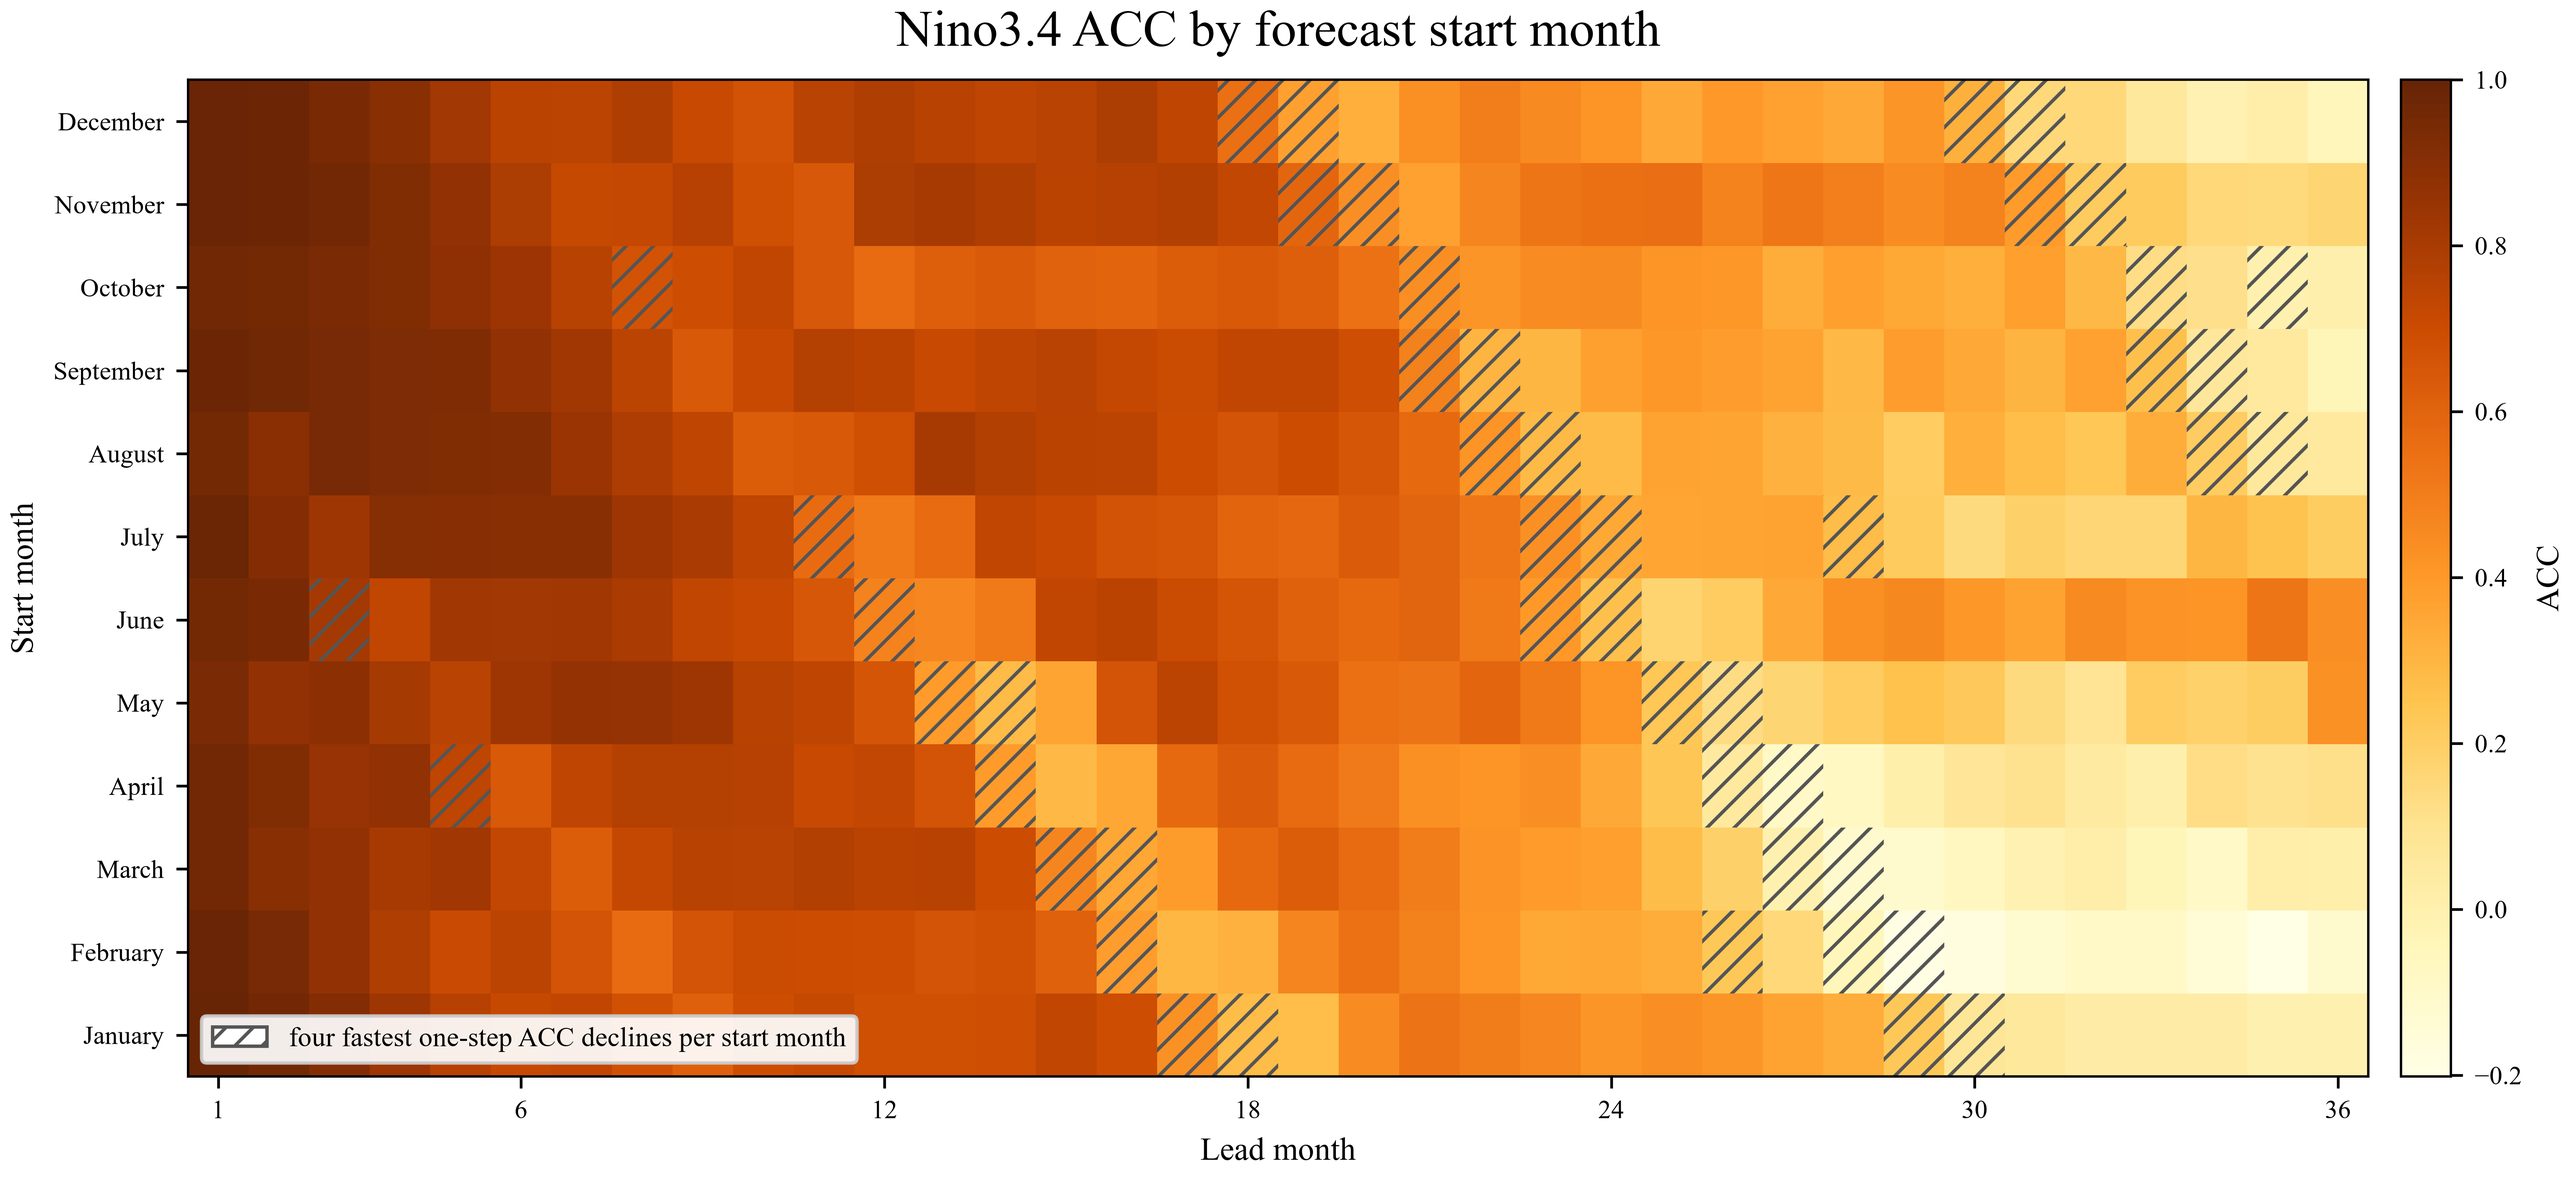
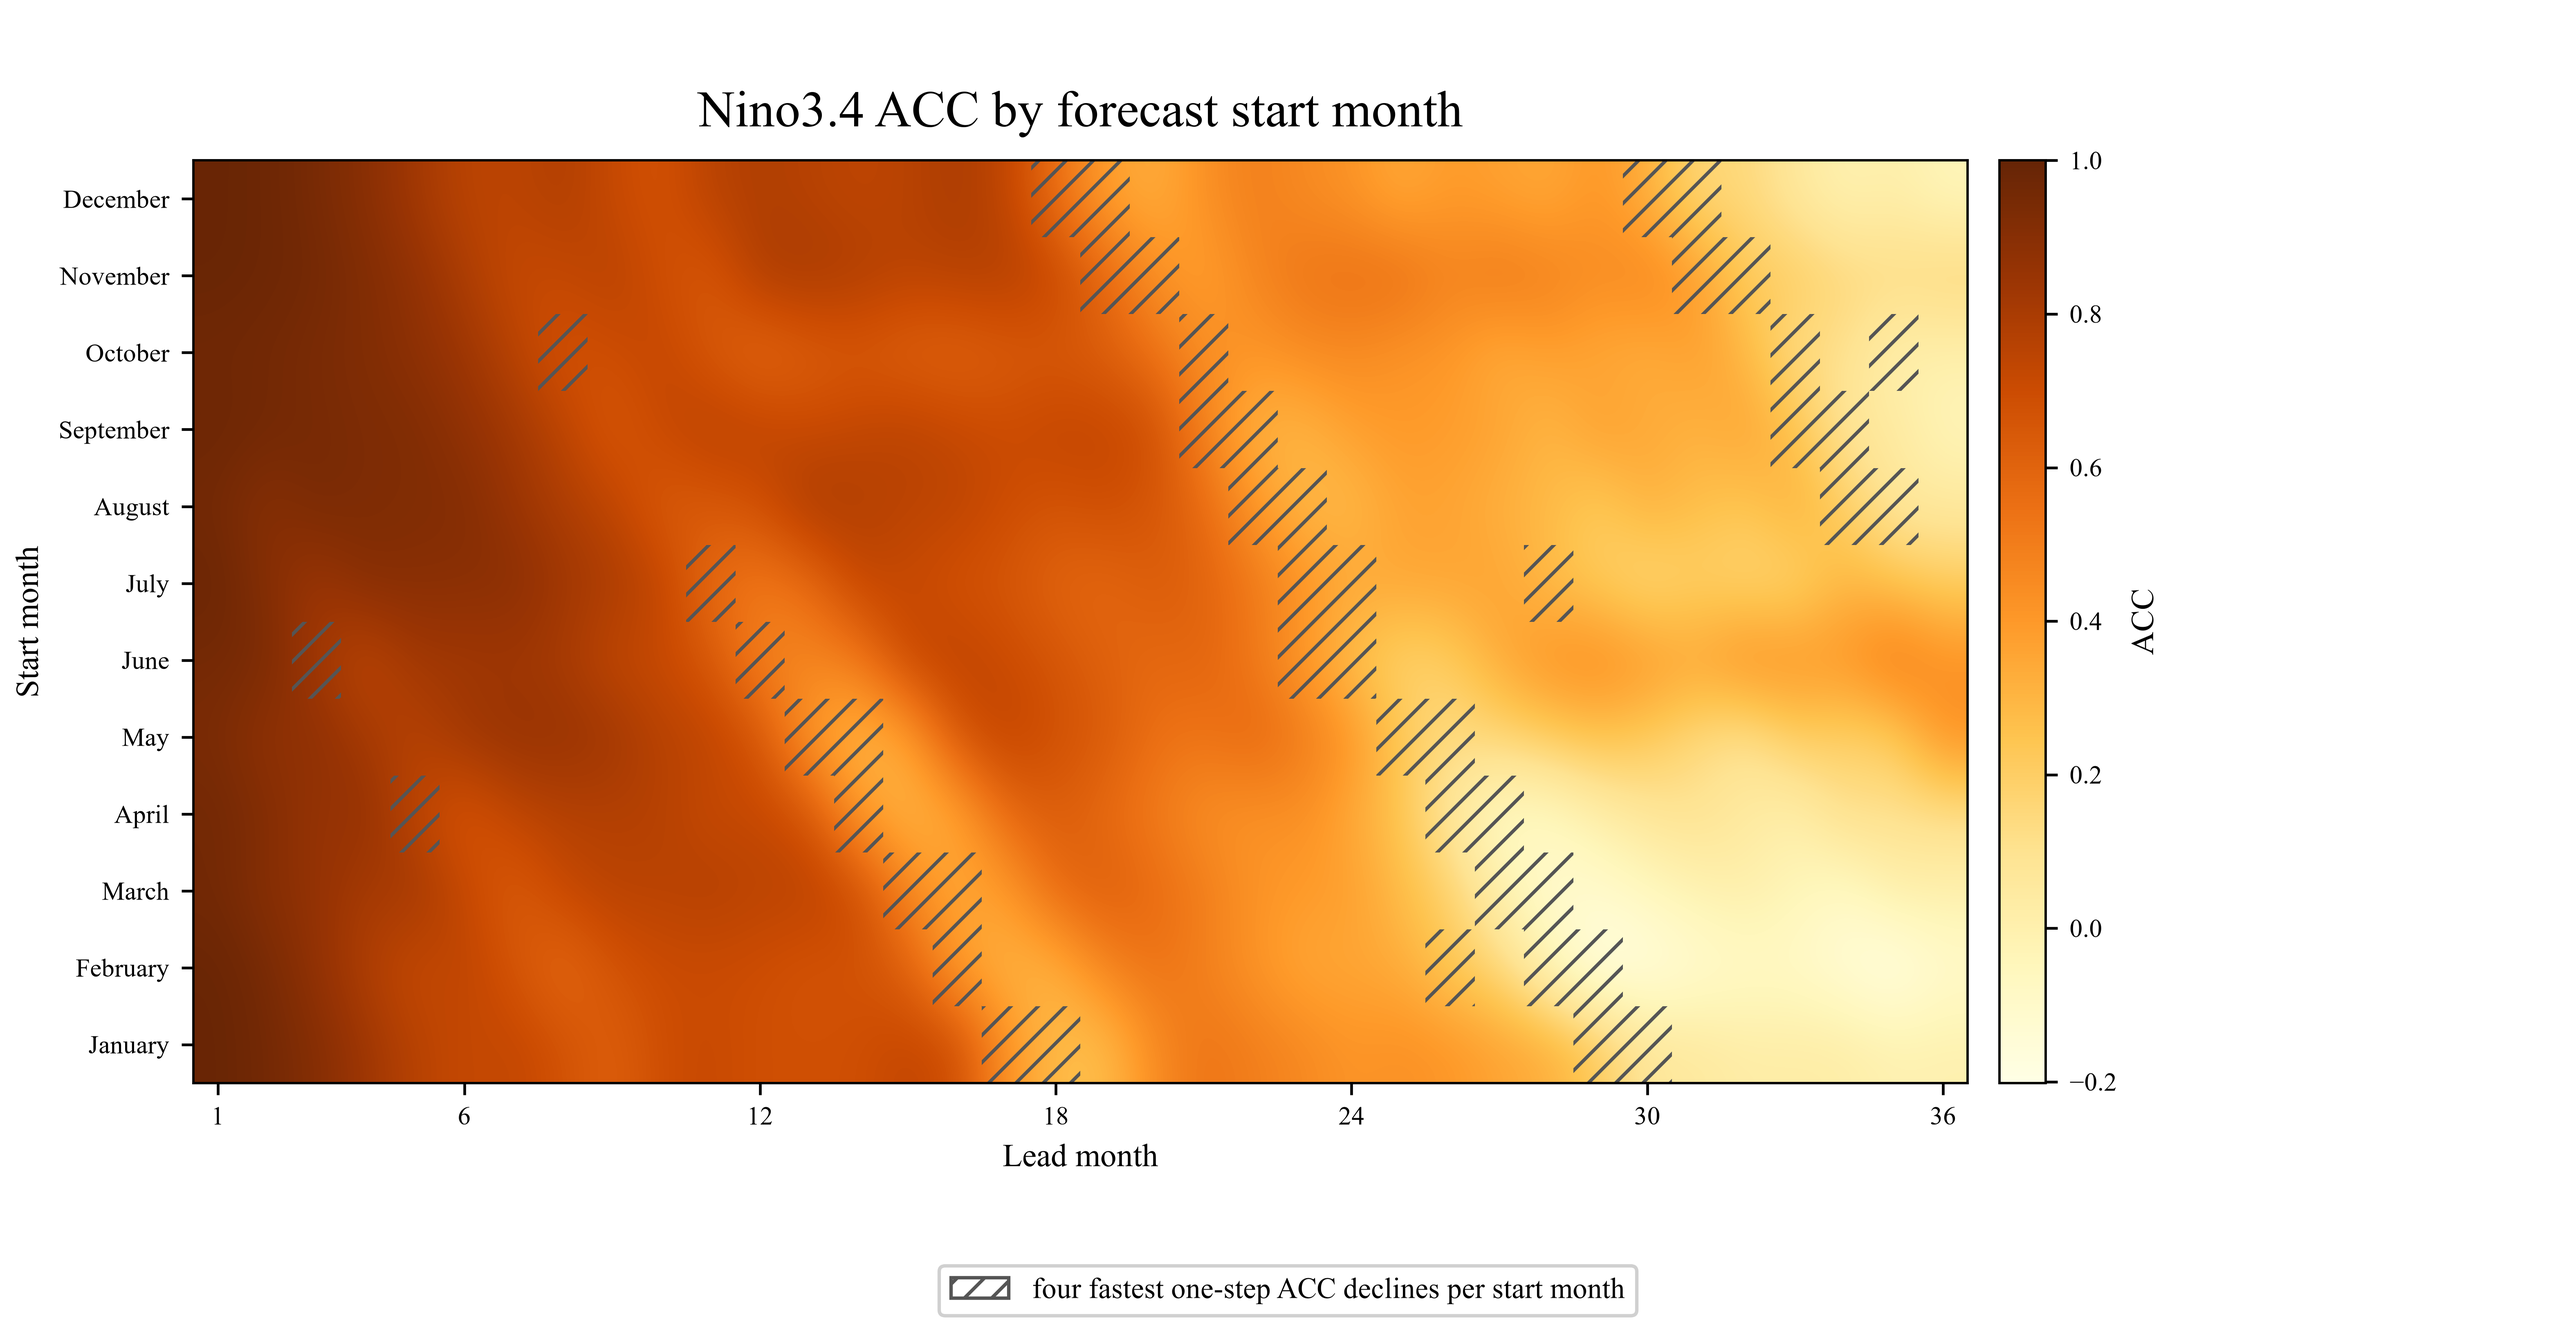
plot: smooth start-month ACC heatmap

diff --git a/scripts/plotting/plot_acc_by_start_month.py b/scripts/plotting/plot_acc_by_start_month.py
@@ -75,7 +75,8 @@ def main() -> None:
         "grid.alpha": 0.26,
         "savefig.facecolor": "white",
     }):
-        fig, ax = plt.subplots(figsize=(10.5, 4.8), layout="constrained")
+        fig, ax = plt.subplots(figsize=(10.5, 5.45))
+        fig.subplots_adjust(left=0.075, right=0.90, bottom=0.19, top=0.88)
         values = ACC_BY_START_MONTH
         image = ax.imshow(
             values,
@@ -85,7 +86,7 @@ def main() -> None:
             cmap="YlOrBr",
             vmin=float(np.nanmin(values)),
             vmax=1.0,
-            interpolation="nearest",
+            interpolation="bicubic",
         )
         # For each start month, hatch the four one-step intervals with the
         # largest ACC drop. The hatch is placed on the endpoint lead cell.
@@ -115,10 +116,11 @@ def main() -> None:
         cb = fig.colorbar(image, ax=ax, pad=0.015)
         cb.set_label("ACC")
         from matplotlib.patches import Patch
-        ax.legend(
+        fig.legend(
             handles=[Patch(facecolor="white", edgecolor="#555555", hatch="///",
                            label="four fastest one-step ACC declines per start month")],
-            loc="lower left", framealpha=0.92, fontsize=8,
+            loc="lower center", bbox_to_anchor=(0.5, 0.005),
+            framealpha=0.92, fontsize=8.5,
         )
         for fmt in ("png", "pdf"):
             fig.savefig(OUT / f"walkernet_acc_by_start_month_lead1_36.{fmt}", dpi=600 if fmt == "png" else None)
@@ -133,6 +135,7 @@ def main() -> None:
         "series": "WalkerNet monthly Niño3.4 anomaly ACC only",
         "leads_plotted": "1-36",
         "hatching": "For each start month, the four largest positive one-step drops ACC[lead]-ACC[lead+1]; hatch is drawn on the endpoint lead cell.",
+        "display_interpolation": "bicubic interpolation for color field display only; raw 12x36 cells and hatch locations are preserved",
         "transformations": [
             "direct saved start-month grouped ACC values rounded to <=6 decimals",
             "shape-preserving PCHIP interpolation for display only",
